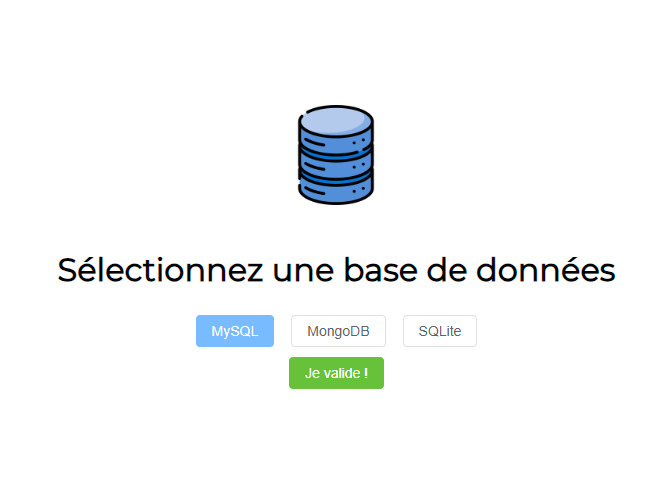
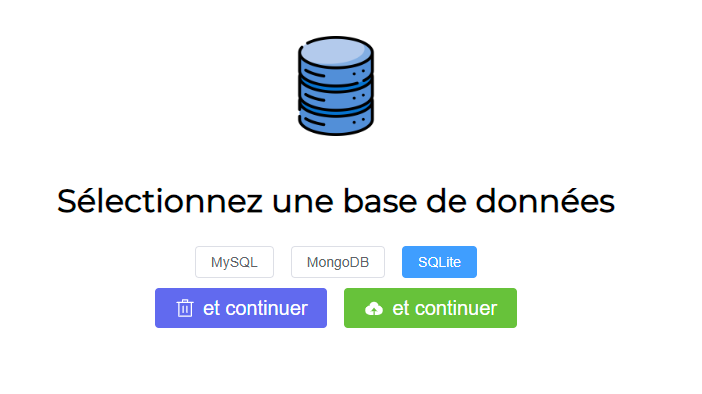
Update README.md

Changed region(s): [[0.2141, 0.6091, 0.7339, 0.8528], [0.0612, 0.4569, 0.948, 0.5787], [0.3976, 0.0914, 0.581, 0.4264]]

diff --git a/README.md b/README.md
@@ -45,7 +45,10 @@ L'enssemble des rèfles du Punto ont été respectées sauf le jeu 2vs2.
 ### Choix de la base de données
 
 Au lancement de l'application, l'utilisateur arrive sur la page d'accueil. Il doit alors choisir une base de données (
-MySQL, MongoDB ou SQLite). Au moment du choix de la base de donné, l'application va gérer en arrière plan la
+MySQL, MongoDB ou SQLite). Lorsque l'utilisateur choisie une base de données, 2 boutons apparaissent :
+- Le premier pour supprimer toutes les données sur toutes les bases de données
+- Le second pour synchroniser les données de toutes les bases de données sur la base de données choisie
+Au moment du choix de la base de donnée, l'application va gérer en arrière plan la
 synchnonisation des données entre la base de données. C'est à dire qu'elle va récupérer les données des autres bases de
 données et les stocker dans la base de données choisie. Le type de base de données choisie est alors stocké dans le
 local storage.  
